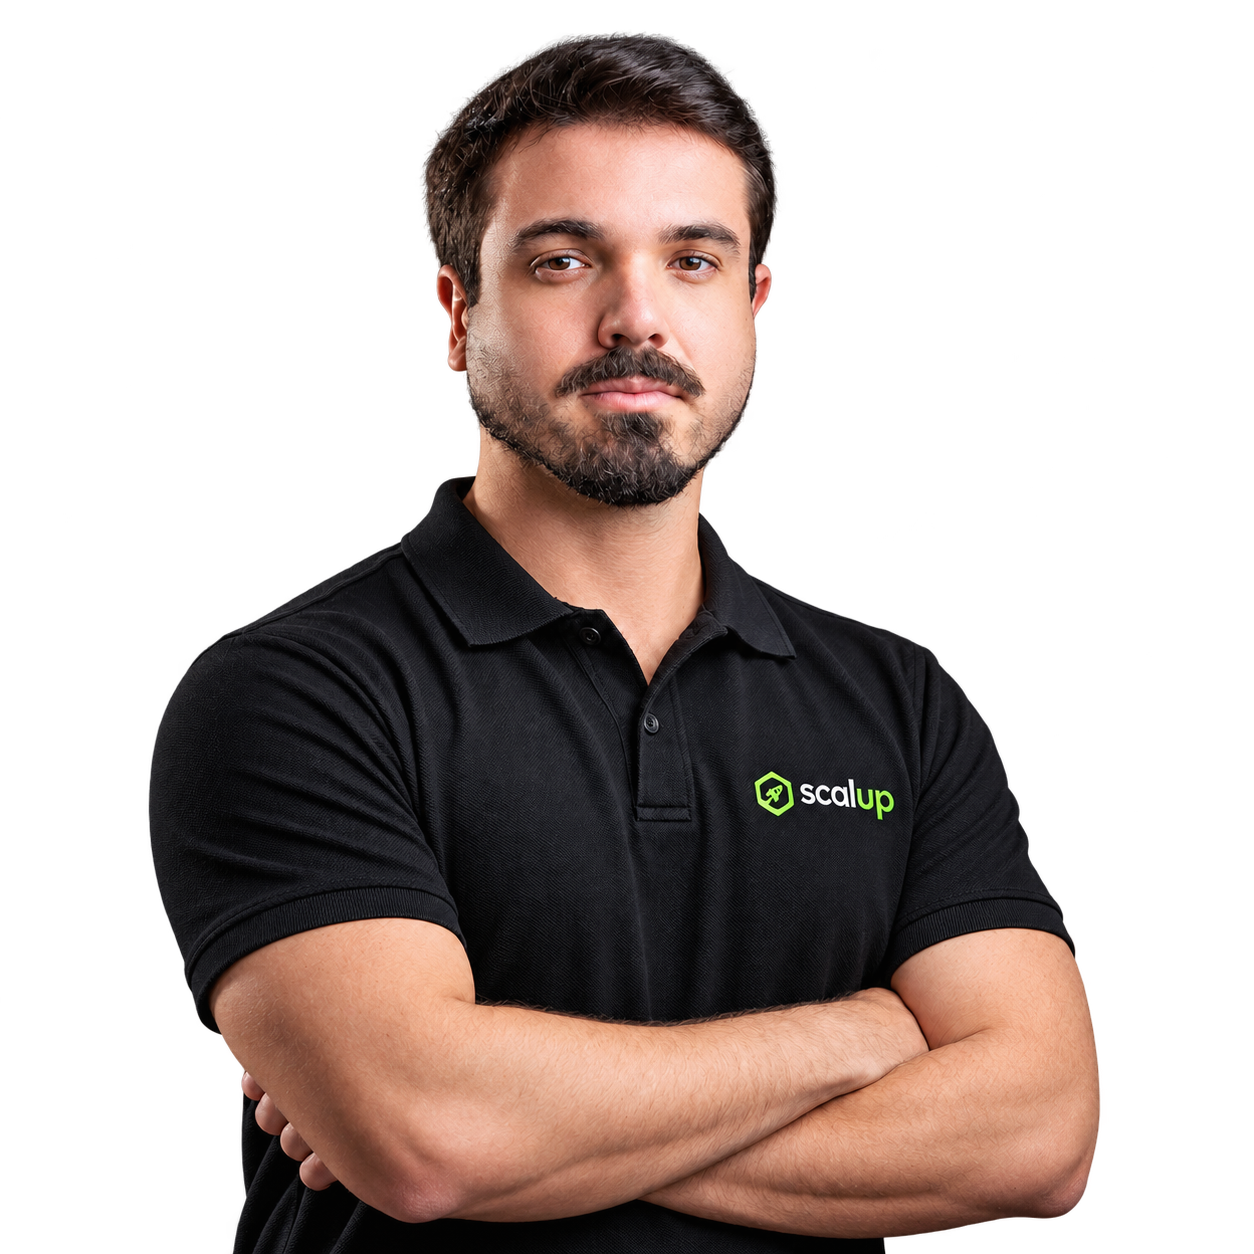
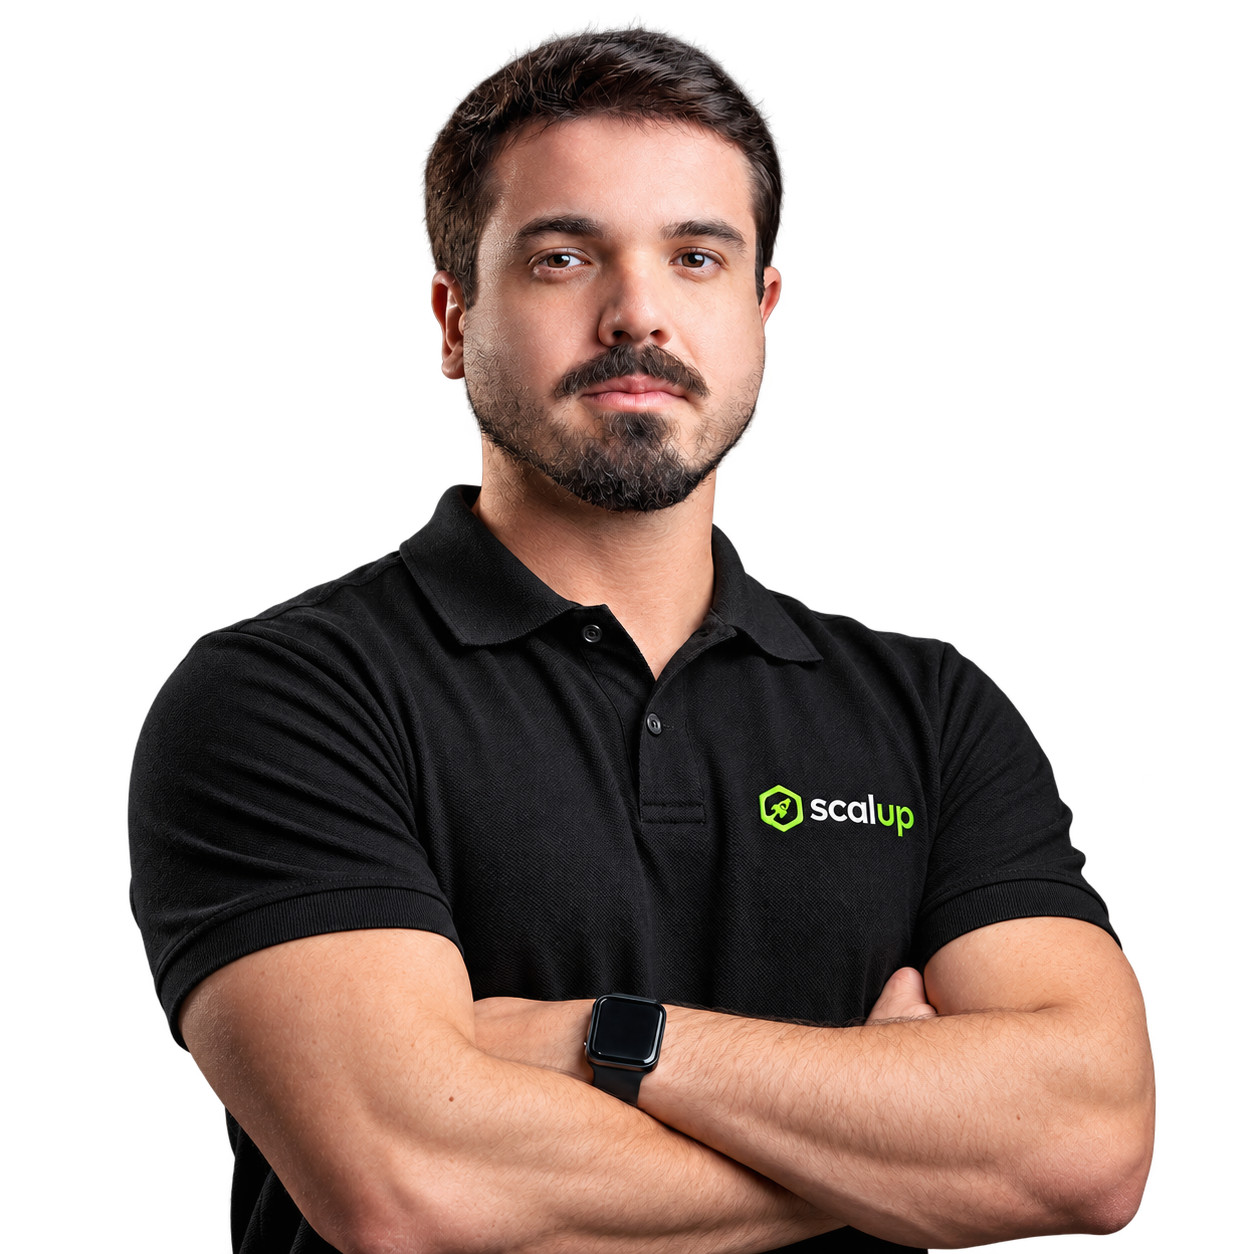
Replace hero portrait with updated client photo

diff --git a/src/components/sections/HeroSection.tsx b/src/components/sections/HeroSection.tsx
@@ -34,7 +34,7 @@ export function HeroSection() {
             </div>
             <div className="hero-portrait">
               <img
-                src="/assets/retrato-scalup.png"
+                src="/assets/retrato-scalup.png?v=c8eb1024"
                 alt={t.hero.portraitAlt}
                 width="1254"
                 height="1254"
